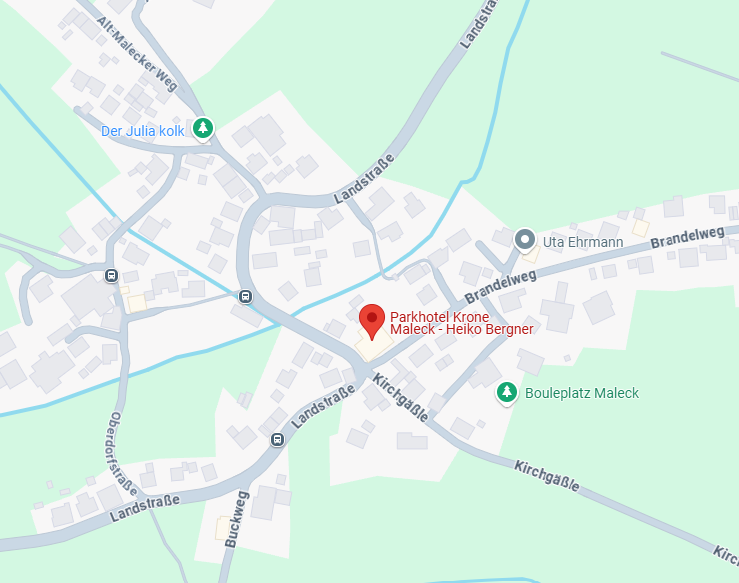
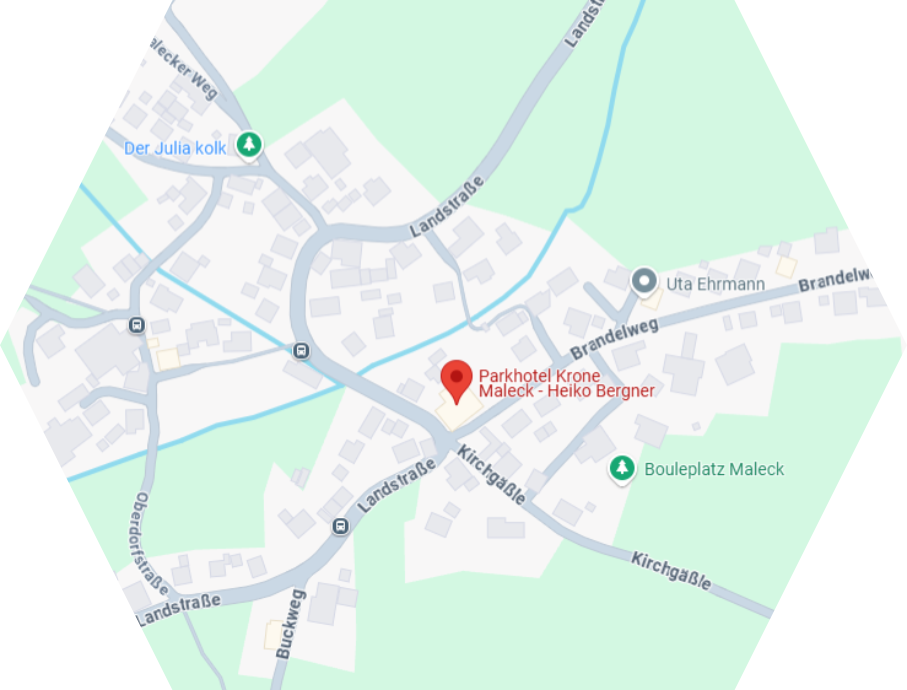
update all

diff --git a/index.html b/index.html
@@ -120,8 +120,8 @@
 <div class="location-info">
     <h3>Hotel Krone</h3>
     <div style="display: flex; align-items: center; justify-content: center;">
-        <a href="https://www.google.com/maps/search/?api=1&query=Hotel+Krone,+Musterstraße+1,+12345+Musterstadt" target="_blank">
-            <img src="images/GoogleMaps_HotelKrone.png" alt="Google Maps Hotel Krone" style="width: 160px; height: auto; margin-right: 20px;">
+        <a href="https://www.google.com/maps/search/?api=1&query=Hotel+Krone,+Brandelweg+1,+79312+Emmendingen" target="_blank">
+            <img src="images/GoogleMaps_Hotel-Krone.png" alt="Google Maps Hotel Krone" style="width: 160px; height: auto; margin-right: 20px;">
         </a>
         <div style="text-align: center; margin-top: 20px;">
             <p>Adresse:<br>
